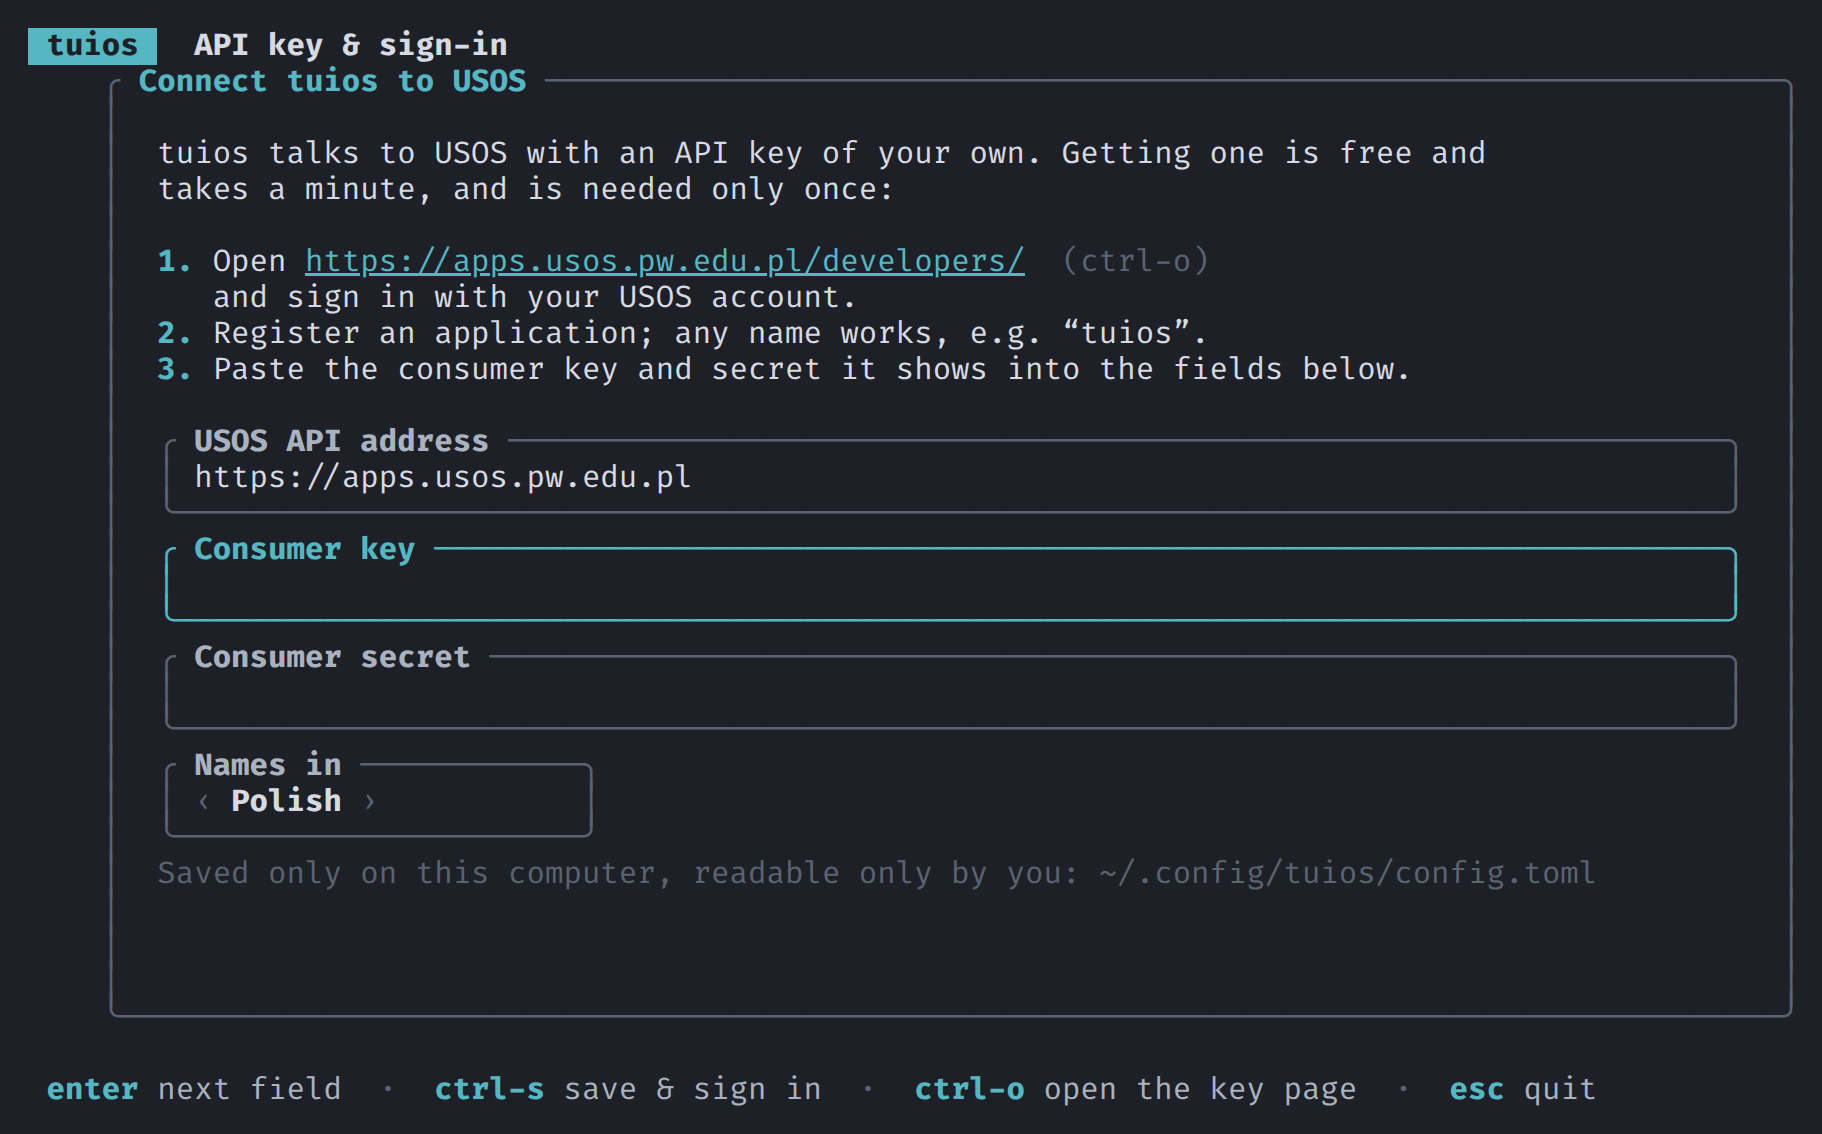
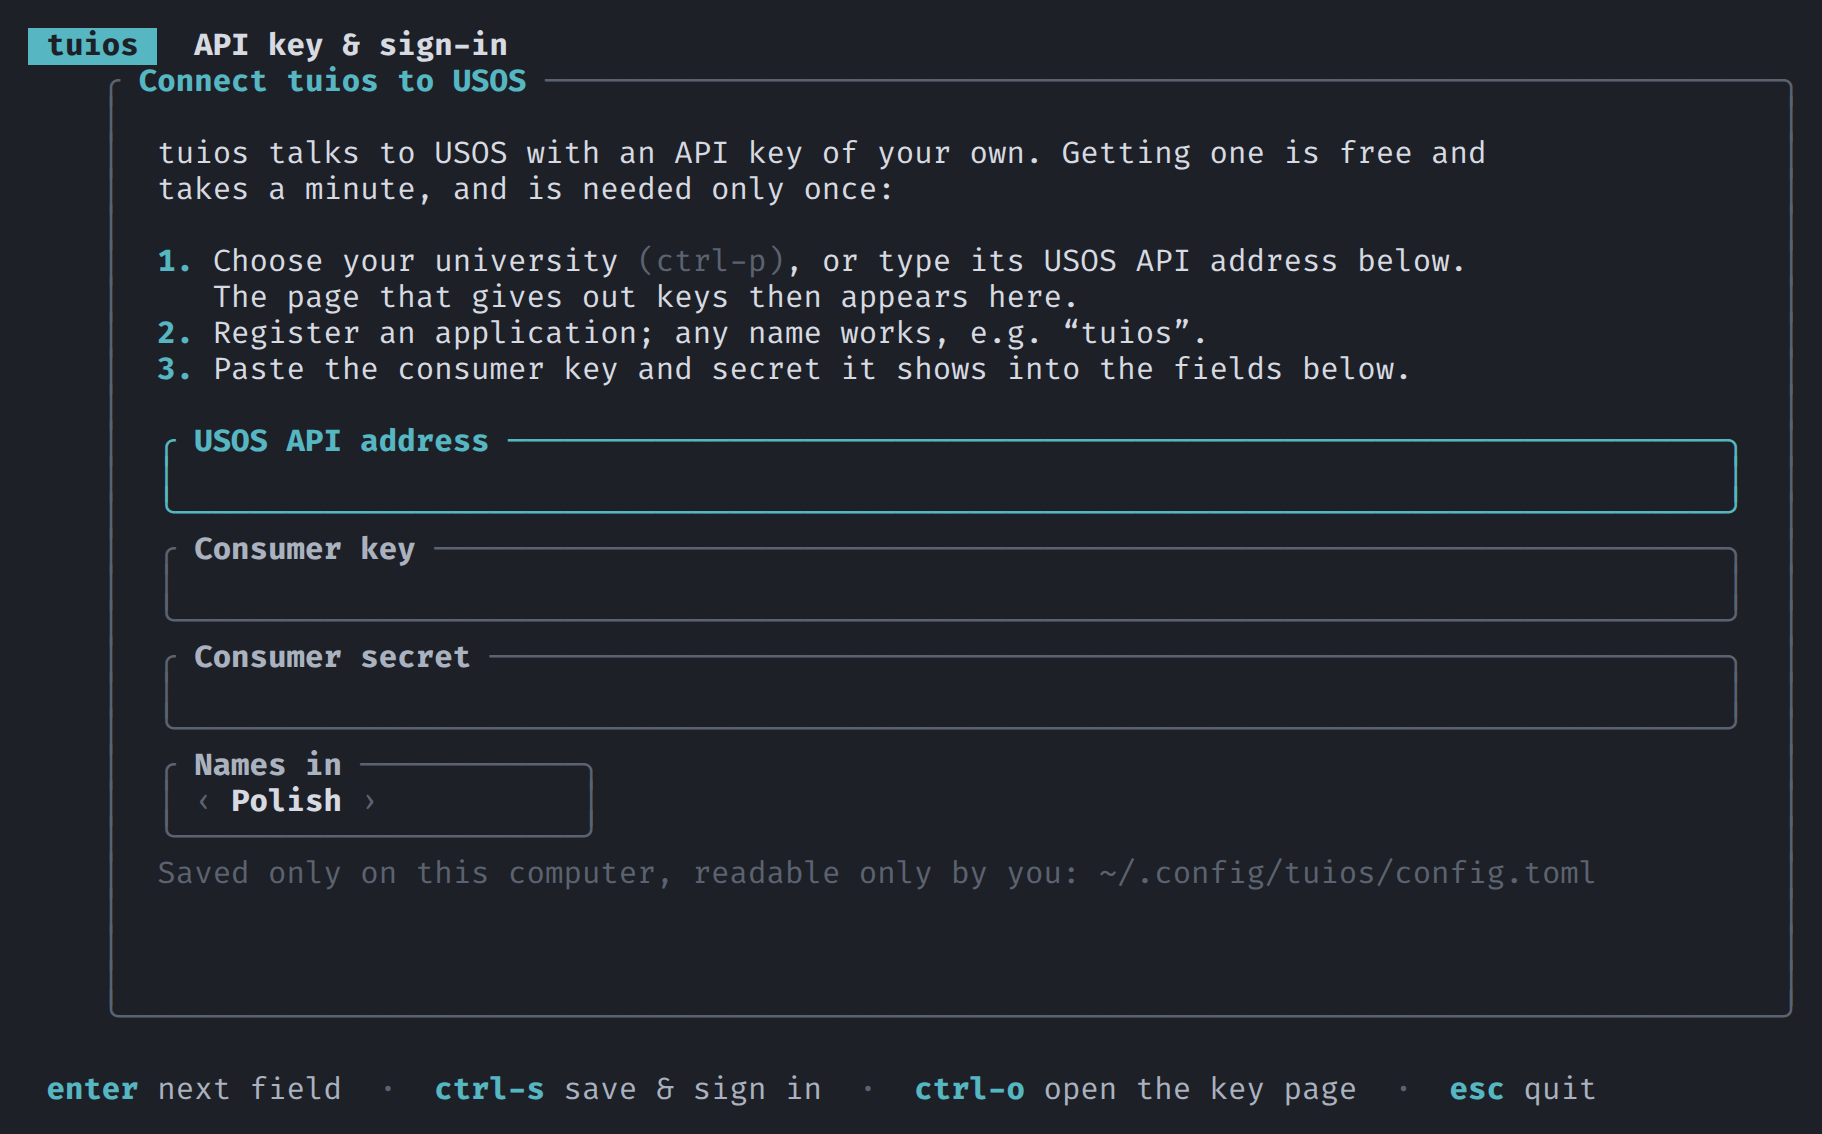
Let first start pick the university instead of assuming PW
The setup screen came prefilled with Warsaw University of Technology's
USOS API address. It now opens on a fuzzy list of every public USOS API
installation, which USOS publishes without needing a key; Esc leaves the
address to be typed by hand. The setup screenshot shows the new screen.

diff --git a/src/app.rs b/src/app.rs
@@ -9,8 +9,8 @@ use crate::config::{self, Settings, Token};
 use crate::input::Input;
 use crate::picker::Picker;
 use crate::usos::{
-    Course, GradeEntry, GradeValue, Group, Kind, NewGrade, NewPoints, Node, PointEntry, ScaleValue,
-    Tree, Usos,
+    self, Course, GradeEntry, GradeValue, Group, Installation, Kind, NewGrade, NewPoints, Node,
+    PointEntry, ScaleValue, Tree, Usos,
 };
 
 /// USOS rejects longer comments.
@@ -21,6 +21,7 @@ pub enum Msg {
     Tick,
     AuthUrl(Result<(String, Token)>),
     AuthDone(Result<Token>),
+    Installations(Result<Vec<Installation>>),
     Courses(Result<Vec<Course>>),
     Tree {
         epoch: u64,
@@ -51,6 +52,7 @@ pub enum Saved {
 
 #[derive(Clone, Copy, PartialEq, Eq)]
 pub enum Screen {
+    University,
     Setup,
     Auth,
     Courses,
@@ -115,10 +117,7 @@ impl Setup {
                 fields[2].set(s.consumer_secret.clone());
                 fields[3].set(s.language.clone());
             }
-            None => {
-                fields[0].set(config::DEFAULT_BASE_URL);
-                fields[3].set("pl");
-            }
+            None => fields[3].set("pl"),
         }
         Self {
             fields,
@@ -204,6 +203,9 @@ pub struct App {
     pub screen: Screen,
     pub setup: Setup,
     pub auth: Auth,
+    /// Universities offered on first start, from USOS API's own list.
+    pub installations: Load<Vec<Installation>>,
+    pub university_picker: Picker,
     pub courses: Load<Vec<Course>>,
     pub course_picker: Picker,
     pub course: Option<usize>,
@@ -242,6 +244,8 @@ impl App {
             screen: Screen::Courses,
             setup: Setup::new(settings.as_ref()),
             auth: Auth::default(),
+            installations: Load::Loading,
+            university_picker: Picker::default(),
             courses: Load::Loading,
             course_picker: Picker::default(),
             course: None,
@@ -264,7 +268,7 @@ impl App {
             reloading: false,
         };
         match &app.usos {
-            None => app.screen = Screen::Setup,
+            None => app.open_universities(),
             Some(u) if u.needs_auth() => app.start_auth(),
             Some(_) => app.load_courses(),
         }
@@ -600,6 +604,14 @@ impl App {
                     }
                 }
             }
+            Msg::Installations(result) => {
+                self.installations = match result {
+                    Ok(list) => Load::Ready(list),
+                    Err(e) => Load::Failed(format!("{e:#}")),
+                };
+                let items = self.university_items();
+                self.university_picker.reset(&items);
+            }
             Msg::Courses(result) => {
                 self.courses = match result {
                     Ok(cs) => Load::Ready(cs),
@@ -663,6 +675,7 @@ impl App {
             return Action::None;
         }
         match self.screen {
+            Screen::University => self.key_university(key),
             Screen::Setup => return self.key_setup(key),
             Screen::Auth => return self.key_auth(key),
             Screen::Courses => return self.key_courses(key),
@@ -677,6 +690,59 @@ impl App {
     }
 
     // ----- setup and sign-in -----
+
+    /// The list of universities, from which the USOS API address is taken.
+    fn open_universities(&mut self) {
+        self.screen = Screen::University;
+        if !matches!(self.installations, Load::Ready(_)) {
+            self.load_universities();
+        }
+    }
+
+    fn load_universities(&mut self) {
+        self.installations = Load::Loading;
+        self.spawn(async { Msg::Installations(usos::installations().await) });
+    }
+
+    pub fn university_items(&self) -> Vec<String> {
+        self.installations
+            .ready()
+            .map(|list| list.iter().map(|i| i.name.clone()).collect())
+            .unwrap_or_default()
+    }
+
+    fn key_university(&mut self, key: KeyEvent) {
+        let ctrl = key.modifiers.contains(KeyModifiers::CONTROL);
+        let items = self.university_items();
+        match key.code {
+            KeyCode::Esc if !self.university_picker.query.is_empty() => {
+                self.university_picker.clear_query(&items);
+            }
+            // Not listed, or the list did not load: the address can be typed instead.
+            KeyCode::Esc => {
+                self.setup.focus = 0;
+                self.screen = Screen::Setup;
+            }
+            KeyCode::Char('r') if ctrl => self.load_universities(),
+            KeyCode::Enter => {
+                let chosen = self.university_picker.selected_index().and_then(|i| {
+                    self.installations
+                        .ready()?
+                        .get(i)
+                        .map(|u| u.base_url.clone())
+                });
+                if let Some(url) = chosen {
+                    self.setup.fields[0].set(url);
+                    self.setup.focus = 1;
+                    self.setup.error = None;
+                    self.screen = Screen::Setup;
+                }
+            }
+            _ => {
+                self.university_picker.handle_key(key, &items);
+            }
+        }
+    }
 
     /// Whether Esc on the setup screen goes back rather than quitting.
     pub fn setup_returns(&self) -> bool {
@@ -699,7 +765,12 @@ impl App {
                 Some(back) if self.usos.is_some() => self.screen = back,
                 _ => return Action::Quit,
             },
+            KeyCode::Char('o') if ctrl && self.setup.fields[0].text.trim().is_empty() => {
+                self.setup.focus = 0;
+                self.setup.error = Some("Choose your university first (ctrl-p)".into());
+            }
             KeyCode::Char('o') if ctrl => open_in_browser(&self.setup.developers_url()),
+            KeyCode::Char('p') if ctrl => self.open_universities(),
             KeyCode::Char('s') if ctrl => self.finish_setup(),
             KeyCode::Left | KeyCode::Right | KeyCode::Char(' ')
                 if self.setup.focus == LANGUAGE_FIELD =>

diff --git a/src/ui.rs b/src/ui.rs
@@ -40,6 +40,7 @@ pub fn draw(f: &mut Frame, app: &mut App) {
         .flex(Flex::Center)
         .areas(body.inner(Margin::new(1, 0)));
     match app.screen {
+        Screen::University => draw_universities(f, body, app),
         Screen::Setup => draw_setup(f, body, app),
         Screen::Auth => draw_auth(f, body, app),
         Screen::Courses => draw_courses(f, body, app),
@@ -66,7 +67,10 @@ fn draw_header(f: &mut Frame, area: Rect, app: &App) {
         ));
     }
     let mut crumbs: Vec<String> = Vec::new();
-    let in_course = !matches!(app.screen, Screen::Setup | Screen::Auth | Screen::Courses);
+    let in_course = !matches!(
+        app.screen,
+        Screen::University | Screen::Setup | Screen::Auth | Screen::Courses
+    );
     if in_course && let Some(c) = app.current_course() {
         crumbs.push(format!("{} ({})", c.course_name, c.term_id));
     }
@@ -81,7 +85,7 @@ fn draw_header(f: &mut Frame, area: Rect, app: &App) {
         (Screen::StudentNodes, _) | (Screen::Form, Some(Screen::StudentNodes)) => {
             crumbs.extend(student);
         }
-        (Screen::Setup, _) => crumbs.push("API key & sign-in".into()),
+        (Screen::Setup | Screen::University, _) => crumbs.push("API key & sign-in".into()),
         _ => {}
     }
     if app.screen == Screen::Form
@@ -137,11 +141,18 @@ fn hints(app: &App) -> Vec<(&'static str, &'static str, u8)> {
     ];
     let with = |extra: &[(&'static str, &'static str, u8)]| [&picker[..], extra].concat();
     match app.screen {
+        Screen::University => vec![
+            ("enter", "choose", 1),
+            ("↑↓", "move", 6),
+            ("type", "to filter", 7),
+            ("esc", "type the address instead", 0),
+        ],
         Screen::Setup => {
             let mut h = vec![
                 ("enter", "next field", 1),
                 ("ctrl-s", "save & sign in", 0),
                 ("ctrl-o", "open the key page", 1),
+                ("ctrl-p", "choose university", 3),
                 ("tab", "switch field", 4),
             ];
             if app.setup.focus == LANGUAGE_FIELD {
@@ -231,6 +242,52 @@ fn placeholder<T>(
 
 // ----- setup and sign-in -----
 
+fn draw_universities(f: &mut Frame, area: Rect, app: &mut App) {
+    let items = app.university_items();
+    let hosts: Vec<String> = app
+        .installations
+        .ready()
+        .map(|list| {
+            list.iter()
+                .map(|i| i.base_url.trim_start_matches("https://").to_string())
+                .collect()
+        })
+        .unwrap_or_default();
+    let host_width = hosts.iter().map(|h| width(h)).max().unwrap_or(0).min(34) as u16;
+    let columns = Columns {
+        widths: vec![Constraint::Length(host_width)],
+        cells: Box::new(move |i| {
+            vec![Cell::from(Span::styled(
+                ellipsize(&hosts[i], host_width as usize),
+                Style::new().fg(SOFT),
+            ))]
+        }),
+        name_style: Box::new(|_| Style::new()),
+    };
+    let placeholder = placeholder(
+        &app.installations,
+        app.frame,
+        "Asking USOS for the list of universities…",
+        |list| {
+            list.is_empty()
+                .then_some("USOS lists no universities; esc lets you type the address")
+        },
+    );
+    let t = title(
+        &["Which university's USOS do you use?"],
+        Some("for the API key and sign-in".into()),
+    );
+    draw_picker(
+        f,
+        area,
+        t,
+        &mut app.university_picker,
+        &items,
+        columns,
+        placeholder,
+    );
+}
+
 fn draw_setup(f: &mut Frame, area: Rect, app: &mut App) {
     let card = centered(area, 92, 30);
     let outer = block(title(&["Connect tuios to USOS"], None));
@@ -239,19 +296,33 @@ fn draw_setup(f: &mut Frame, area: Rect, app: &mut App) {
     f.render_widget(outer, card);
     let setup = &app.setup;
     let step = |n: &str| Span::styled(format!("{n}. "), Style::new().fg(ACCENT).bold());
-    let intro = vec![
-        Line::raw("tuios talks to USOS with an API key of your own. Getting one is free and"),
-        Line::raw("takes a minute, and is needed only once:"),
-        Line::raw(""),
+    let open = if setup.fields[0].text.trim().is_empty() {
+        Line::from(vec![
+            step("1"),
+            Span::raw("Choose your university"),
+            Span::styled(" (ctrl-p)", Style::new().fg(DIM)),
+            Span::raw(", or type its USOS API address below."),
+        ])
+    } else {
         Line::from(vec![
             step("1"),
             Span::raw("Open "),
             Span::styled(setup.developers_url(), Style::new().fg(ACCENT).underlined()),
             Span::styled("  (ctrl-o)", Style::new().fg(DIM)),
-        ]),
+        ])
+    };
+    let intro = vec![
+        Line::raw("tuios talks to USOS with an API key of your own. Getting one is free and"),
+        Line::raw("takes a minute, and is needed only once:"),
+        Line::raw(""),
+        open,
         Line::from(vec![
             Span::raw("   "),
-            Span::raw("and sign in with your USOS account."),
+            Span::raw(if setup.fields[0].text.trim().is_empty() {
+                "The page that gives out keys then appears here."
+            } else {
+                "and sign in with your USOS account."
+            }),
         ]),
         Line::from(vec![
             step("2"),

diff --git a/src/usos.rs b/src/usos.rs
@@ -634,6 +634,46 @@ fn structure_only(mut tree: Tree) -> Tree {
     tree
 }
 
+/// A university running USOS API.
+#[derive(Clone)]
+pub struct Installation {
+    pub name: String,
+    pub base_url: String,
+}
+
+/// Every public USOS API installation, by name. Needs no key, so it can be asked
+/// before the user has one.
+pub async fn installations() -> Result<Vec<Installation>> {
+    let body = reqwest::Client::new()
+        .get(crate::config::INSTALLATIONS_URL)
+        .timeout(Duration::from_secs(20))
+        .send()
+        .await
+        .context("could not reach USOS to list universities")?
+        .error_for_status()?
+        .text()
+        .await?;
+    let v: Value = serde_json::from_str(&body).context("unexpected list of universities")?;
+    let mut list: Vec<Installation> = v
+        .as_array()
+        .into_iter()
+        .flatten()
+        .filter_map(|i| {
+            let url = i["base_url"].as_str()?.trim_end_matches('/');
+            // Some entries still say http://; the key and token must not travel unencrypted.
+            let url = url
+                .strip_prefix("http://")
+                .map_or(url.to_string(), |rest| format!("https://{rest}"));
+            Some(Installation {
+                name: lang_of(&i["institution_name"], "pl"),
+                base_url: url,
+            })
+        })
+        .collect();
+    list.sort_by_cached_key(|i| deunicode::deunicode(&i.name).to_lowercase());
+    Ok(list)
+}
+
 async fn signed_post(
     http: &reqwest::Client,
     settings: &Settings,

diff --git a/src/config.rs b/src/config.rs
@@ -6,7 +6,9 @@ use std::path::PathBuf;
 use anyhow::{Context, Result};
 use serde::{Deserialize, Serialize};
 
-pub const DEFAULT_BASE_URL: &str = "https://apps.usos.pw.edu.pl";
+/// Any installation answers with the list of all of them; this one is the University
+/// of Warsaw's, where USOS API is developed.
+pub const INSTALLATIONS_URL: &str = "https://usosapps.uw.edu.pl/services/apisrv/installations";
 
 /// Per-user settings. They hold the user's own API key, so they live in the user's
 /// config directory and never in the project.
